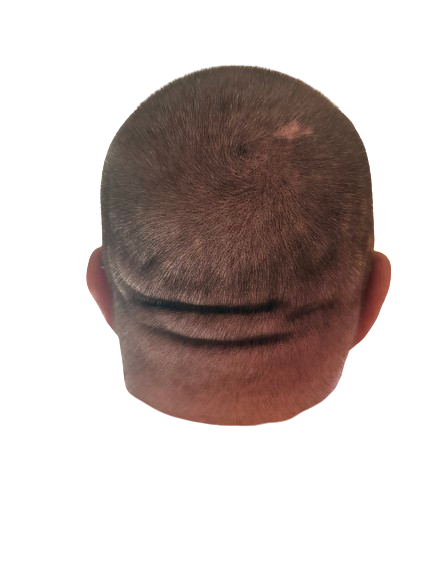
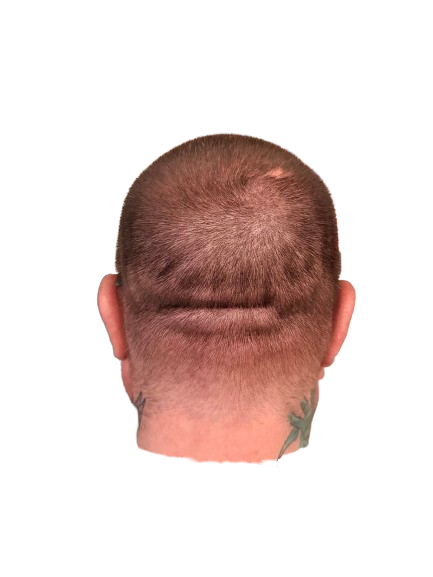
New face photos + plane retune
Swaps in new 433×577 face / back-of-head / scared PNGs and tunes
FaceBillboard for them: plane resized to 0.95×1.27 (matches the
new 0.75 aspect with a slight scale-up so the head reads bigger),
face group dropped to y=1.50 to compensate for the empty alpha
space at the bottom of the new canvases, scared texture gets a
UV offset.y = 0.10 so its head doesn't float above the shoulders,
and the back/scared canvas filter is dialed way down (saturate
1.10, contrast 1.06) so the new uniformly-processed photos don't
pick up a red cast.

diff --git a/app/components/GameWorld.tsx b/app/components/GameWorld.tsx
@@ -4840,11 +4840,13 @@ function FaceBillboard({
     "/face-back.png",
     "/face-scared.png",
   ]);
-  // The back/scared photos came in less saturated than the
-  // photo-edited front face. Punch up contrast + saturation once
-  // via a canvas filter so all three textures read with similar
-  // vibrance on the billboard. Done as a load-time effect so we
-  // don't pay a per-frame cost.
+  // Light color-correction pass on back/scared — the current source
+  // PNGs are uniformly processed and read close to the front face
+  // out of the box, so we only nudge saturation + contrast slightly
+  // for a hair more pop on the billboard. A previous version applied
+  // `saturate(1.2) contrast(1.18) brightness(1.04)` here, which
+  // pushed the new photos' skin tones into a red tint. The current
+  // values are gentle enough to add vibrance without color cast.
   useEffect(() => {
     for (const tex of [texBack, texScared]) {
       const img = tex.image as HTMLImageElement | undefined;
@@ -4854,12 +4856,24 @@ function FaceBillboard({
       canvas.height = img.height;
       const ctx = canvas.getContext("2d");
       if (!ctx) continue;
-      ctx.filter = "saturate(1.2) contrast(1.18) brightness(1.04)";
+      ctx.filter = "saturate(1.10) contrast(1.06)";
       ctx.drawImage(img, 0, 0);
       tex.image = canvas;
       tex.needsUpdate = true;
     }
   }, [texBack, texScared]);
+
+  // Vertical alignment fix: face-scared.png has its head positioned
+  // higher in its source canvas than face.png does, so without a
+  // shift the scared face hovers noticeably above the shoulders.
+  // texture.offset.y is in UV space (V=0 bottom, V=1 top). Positive
+  // offset shifts the texture content DOWN on the plane — what's
+  // sampled at plane V=0 is actually at texture V=offset.y, so the
+  // head moves down. Tuned by eye against the gator-chase view.
+  useEffect(() => {
+    texScared.offset.y = 0.10;
+    texScared.needsUpdate = true;
+  }, [texScared]);
   const meshRef = useRef<THREE.Mesh>(null);
   const matRef = useRef<THREE.MeshBasicMaterial>(null);
   // Scratch vectors so we don't allocate every frame.
@@ -4929,7 +4943,17 @@ function FaceBillboard({
 
   return (
     <mesh ref={meshRef}>
-      <planeGeometry args={[0.85, 0.9]} />
+      {/* Plane sized to match the source PNGs' 433×577 aspect (≈0.75)
+          with a ~12% scale-up vs the original 0.85×1.13 so the head
+          reads slightly larger / more dominant. The new PNGs have
+          transparent space below the chin, which is why the plane
+          is tall — the empty bottom region sits over the gi
+          (invisibly, since it's all alpha 0). The bobble +
+          scared-shake Z-rotations still pivot around the plane's
+          geometric center, which is fine because the camera
+          billboard logic doesn't care about content position
+          within the texture. */}
+      <planeGeometry args={[0.95, 1.27]} />
       <meshBasicMaterial
         ref={matRef}
         map={texFront}
@@ -5244,10 +5268,14 @@ function Character({
             locks to body rotation while riding the coaster so the face
             points down the track.
 
-            Y was bumped 1.45 → 1.60 so the bottom of the face plane
-            clears the gi collar — the beard is in the lower ~30% of
-            the photo, and the old position put it under the lapels. */}
-        <group position={[0, 1.6, 0]}>
+            Y position chosen for the current source PNGs (433×577,
+            face content in the upper ~60% of the canvas). With the
+            plane height = 1.27, the face center on the plane sits
+            ~0.16 above the plane's geometric center, so a group y
+            of 1.50 puts the face center near y=1.66 and the chin
+            just above the gi collar (y≈1.275). If you swap the
+            photos with differently-cropped sources, retune this. */}
+        <group position={[0, 1.5, 0]}>
           <FaceBillboard charRef={charRef} balloonRef={balloonRef} />
         </group>
 
